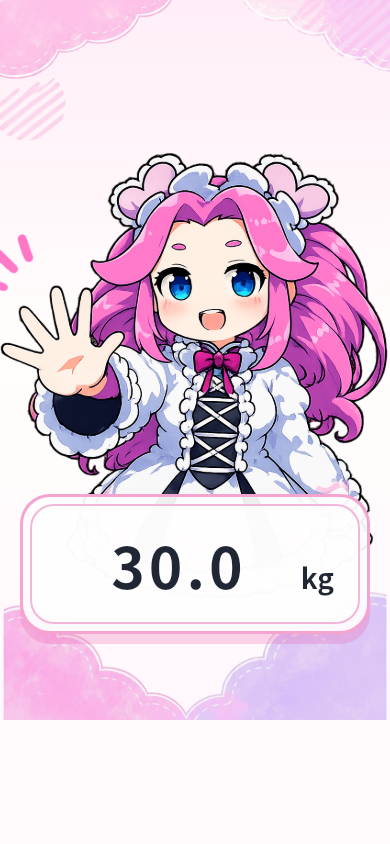
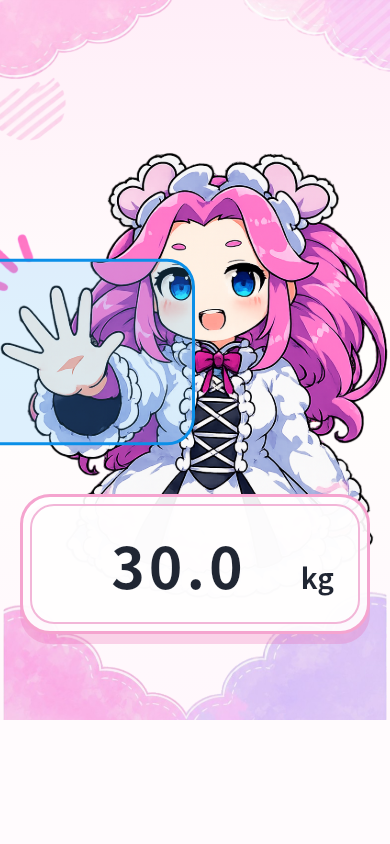
Improve error details and fix weight save

Changed region(s): [[0.0, 0.3081, 0.5231, 0.5545]]

diff --git a/lib/screens/home_screen.dart b/lib/screens/home_screen.dart
@@ -103,7 +103,11 @@ class _HomeScreenState extends ConsumerState<HomeScreen> {
       ).push(MaterialPageRoute<void>(builder: (_) => const ReportScreen()));
     } catch (error, stackTrace) {
       if (mounted) {
-        await AppErrorHandler.showErrorDialogForContext(context, error);
+        await AppErrorHandler.showErrorDialogForContext(
+          context,
+          error,
+          stackTrace,
+        );
       } else {
         AppErrorHandler.report(error, stackTrace);
       }
@@ -254,22 +258,70 @@ class _WeightInputHero extends StatelessWidget {
                       children: [
                         Positioned(
                           bottom: 92,
-                          child: Semantics(
-                            button: isHighTouchEnabled,
-                            label: isHighTouchEnabled ? 'ハイタッチ' : null,
-                            child: GestureDetector(
-                              behavior: HitTestBehavior.opaque,
-                              onTap: isHighTouchEnabled ? onHighTouch : null,
-                              child: AnimatedSwitcher(
-                                duration: const Duration(milliseconds: 280),
-                                child: Image.asset(
+                          child: AnimatedSwitcher(
+                            duration: const Duration(milliseconds: 280),
+                            child: Stack(
+                              key: ValueKey(characterAsset),
+                              alignment: Alignment.center,
+                              children: [
+                                Image.asset(
                                   characterAsset,
-                                  key: ValueKey(characterAsset),
                                   height: 470,
                                   fit: BoxFit.contain,
                                   semanticLabel: '体重入力キャラクター',
                                 ),
-                              ),
+                                if (isHighTouchEnabled)
+                                  Positioned.fill(
+                                    child: LayoutBuilder(
+                                      builder: (context, constraints) {
+                                        final cellHeight =
+                                            constraints.maxHeight / 3;
+
+                                        return Stack(
+                                          children: [
+                                            Positioned(
+                                              left: 0,
+                                              top: cellHeight - 30,
+                                              width: constraints.maxWidth / 2,
+                                              height: cellHeight + 30,
+                                              child: Semantics(
+                                                button: true,
+                                                label: 'ハイタッチ',
+                                                child: GestureDetector(
+                                                  behavior:
+                                                      HitTestBehavior.opaque,
+                                                  onTap: onHighTouch,
+                                                  child: IgnorePointer(
+                                                    child: DecoratedBox(
+                                                      decoration: BoxDecoration(
+                                                        color:
+                                                            const Color(
+                                                              0xFF48B7FF,
+                                                            ).withValues(
+                                                              alpha: 0.18,
+                                                            ),
+                                                        border: Border.all(
+                                                          color: const Color(
+                                                            0xFF0B8FE8,
+                                                          ),
+                                                          width: 3,
+                                                        ),
+                                                        borderRadius:
+                                                            BorderRadius.circular(
+                                                              28,
+                                                            ),
+                                                      ),
+                                                    ),
+                                                  ),
+                                                ),
+                                              ),
+                                            ),
+                                          ],
+                                        );
+                                      },
+                                    ),
+                                  ),
+                              ],
                             ),
                           ),
                         ),

diff --git a/lib/services/app_error_handler.dart b/lib/services/app_error_handler.dart
@@ -11,27 +11,33 @@ class AppErrorHandler {
     FlutterError.presentError(
       FlutterErrorDetails(exception: error, stack: stackTrace),
     );
-    unawaited(showErrorDialog(error));
+    unawaited(showErrorDialog(error, stackTrace));
   }
 
-  static Future<void> showErrorDialog(Object error) async {
+  static Future<void> showErrorDialog(
+    Object error, [
+    StackTrace? stackTrace,
+  ]) async {
     final context = appNavigatorKey.currentContext;
     if (context == null) return;
 
-    await showErrorDialogForContext(context, error);
+    await showErrorDialogForContext(context, error, stackTrace);
   }
 
   static Future<void> showErrorDialogForContext(
     BuildContext context,
-    Object error,
-  ) async {
+    Object error, [
+    StackTrace? stackTrace,
+  ]) async {
     if (!context.mounted) return;
 
     await showDialog<void>(
       context: context,
       builder: (context) => AlertDialog(
         title: const Text('エラーが発生しました'),
-        content: SingleChildScrollView(child: Text(error.toString())),
+        content: SingleChildScrollView(
+          child: Text(_formatErrorMessage(error, stackTrace)),
+        ),
         actions: [
           TextButton(
             onPressed: () => Navigator.of(context).pop(),
@@ -40,5 +46,43 @@ class AppErrorHandler {
         ],
       ),
     );
+  }
+
+  static String _formatErrorMessage(Object error, StackTrace? stackTrace) {
+    final location = _firstAppStackFrame(stackTrace);
+    if (location == null) return error.toString();
+
+    return '${error.toString()}\n\n発生箇所: $location';
+  }
+
+  static String? _firstAppStackFrame(StackTrace? stackTrace) {
+    if (stackTrace == null) return null;
+
+    for (final line in stackTrace.toString().split('\n')) {
+      final uriMatch = RegExp(
+        r'\((file://[^:]+):(\d+):(\d+)\)',
+      ).firstMatch(line);
+      if (uriMatch != null) {
+        final path = Uri.parse(uriMatch.group(1)!).toFilePath();
+        final normalizedPath = path.replaceAll('\\', '/');
+        final libIndex = normalizedPath.indexOf('/lib/');
+        final testIndex = normalizedPath.indexOf('/test/');
+        final relativePath = libIndex >= 0
+            ? normalizedPath.substring(libIndex + 1)
+            : testIndex >= 0
+            ? normalizedPath.substring(testIndex + 1)
+            : normalizedPath;
+        return '$relativePath:${uriMatch.group(2)}:${uriMatch.group(3)}';
+      }
+
+      final packageMatch = RegExp(
+        r'(package:weight_report_app/[^\s)]+):(\d+):(\d+)',
+      ).firstMatch(line);
+      if (packageMatch != null) {
+        return '${packageMatch.group(1)}:${packageMatch.group(2)}:${packageMatch.group(3)}';
+      }
+    }
+
+    return null;
   }
 }

diff --git a/lib/models/weight_entry.g.dart b/lib/models/weight_entry.g.dart
@@ -31,15 +31,7 @@ const WeightEntrySchema = CollectionSchema(
   deserialize: _weightEntryDeserialize,
   deserializeProp: _weightEntryDeserializeProp,
   idName: r'id',
-  indexes: {
-    r'date': IndexSchema(
-      id: -2635649454994942098,
-      name: r'date',
-      unique: true,
-      replace: true,
-      properties: [IndexPropertySchema(name: r'date', type: IndexType.value, caseSensitive: false)],
-    ),
-  },
+  indexes: {},
   links: {},
   embeddedSchemas: {},
   getId: _weightEntryGetId,
@@ -48,22 +40,41 @@ const WeightEntrySchema = CollectionSchema(
   version: '3.1.0+1',
 );
 
-int _weightEntryEstimateSize(WeightEntry object, List<int> offsets, Map<Type, List<int>> allOffsets) => 0;
+int _weightEntryEstimateSize(
+  WeightEntry object,
+  List<int> offsets,
+  Map<Type, List<int>> allOffsets,
+) => 0;
 
-void _weightEntrySerialize(WeightEntry object, IsarWriter writer, List<int> offsets, Map<Type, List<int>> allOffsets) {
+void _weightEntrySerialize(
+  WeightEntry object,
+  IsarWriter writer,
+  List<int> offsets,
+  Map<Type, List<int>> allOffsets,
+) {
   writer.writeDateTime(offsets[0], object.createdAt);
   writer.writeDateTime(offsets[1], object.date);
   writer.writeDouble(offsets[2], object.weightKg);
 }
 
-WeightEntry _weightEntryDeserialize(Id id, IsarReader reader, List<int> offsets, Map<Type, List<int>> allOffsets) => WeightEntry(
-      id: id,
-      createdAt: reader.readDateTimeOrNull(offsets[0]),
-      date: reader.readDateTime(offsets[1]),
-      weightKg: reader.readDouble(offsets[2]),
-    );
+WeightEntry _weightEntryDeserialize(
+  Id id,
+  IsarReader reader,
+  List<int> offsets,
+  Map<Type, List<int>> allOffsets,
+) => WeightEntry(
+  id: id,
+  createdAt: reader.readDateTimeOrNull(offsets[0]),
+  date: reader.readDateTime(offsets[1]),
+  weightKg: reader.readDouble(offsets[2]),
+);
 
-P _weightEntryDeserializeProp<P>(IsarReader reader, int propertyId, int offset, Map<Type, List<int>> allOffsets) {
+P _weightEntryDeserializeProp<P>(
+  IsarReader reader,
+  int propertyId,
+  int offset,
+  Map<Type, List<int>> allOffsets,
+) {
   switch (propertyId) {
     case 0:
       return (reader.readDateTimeOrNull(offset)) as P;
@@ -78,4 +89,8 @@ P _weightEntryDeserializeProp<P>(IsarReader reader, int propertyId, int offset, 
 
 Id _weightEntryGetId(WeightEntry object) => object.id;
 List<IsarLinkBase<dynamic>> _weightEntryGetLinks(WeightEntry object) => [];
-void _weightEntryAttach(IsarCollection<dynamic> col, Id id, WeightEntry object) => object.id = id;
+void _weightEntryAttach(
+  IsarCollection<dynamic> col,
+  Id id,
+  WeightEntry object,
+) => object.id = id;

diff --git a/lib/services/weight_repository.dart b/lib/services/weight_repository.dart
@@ -72,7 +72,20 @@ class WeightRepository {
   Future<void> saveToday(double weightKg) async {
     final now = DateTime.now();
     final today = DateTime(now.year, now.month, now.day);
-    final entry = WeightEntry(date: today, weightKg: weightKg, createdAt: now);
-    await _isar.writeTxn(() => _isar.weightEntries.put(entry));
+
+    await _isar.writeTxn(() async {
+      final entries = await _isar.weightEntries.where().findAll();
+      final existingEntry = entries.cast<WeightEntry?>().firstWhere(
+        (entry) => entry?.date == today,
+        orElse: () => null,
+      );
+
+      final entry =
+          existingEntry ??
+          WeightEntry(date: today, weightKg: weightKg, createdAt: now);
+      entry.weightKg = weightKg;
+      entry.createdAt ??= now;
+      await _isar.weightEntries.put(entry);
+    });
   }
 }

diff --git a/test/app_error_handler_test.dart b/test/app_error_handler_test.dart
@@ -12,6 +12,7 @@ void main() {
             onPressed: () => AppErrorHandler.showErrorDialogForContext(
               context,
               StateError('全体エラー'),
+              StackTrace.current,
             ),
             child: const Text('show error'),
           ),
@@ -24,6 +25,7 @@ void main() {
 
     expect(find.text('エラーが発生しました'), findsOneWidget);
     expect(find.textContaining('全体エラー'), findsOneWidget);
+    expect(find.textContaining('発生箇所:'), findsOneWidget);
 
     await tester.tap(find.text('OK'));
     await tester.pumpAndSettle();

diff --git a/lib/main.dart b/lib/main.dart
@@ -12,7 +12,7 @@ void main() {
     WidgetsFlutterBinding.ensureInitialized();
     FlutterError.onError = (details) {
       FlutterError.presentError(details);
-      AppErrorHandler.showErrorDialog(details.exception);
+      AppErrorHandler.showErrorDialog(details.exception, details.stack);
     };
     PlatformDispatcher.instance.onError = (error, stackTrace) {
       AppErrorHandler.report(error, stackTrace);

diff --git a/test/home_screen_golden_test.dart b/test/home_screen_golden_test.dart
@@ -205,6 +205,7 @@ void main() {
 
     expect(find.text('エラーが発生しました'), findsOneWidget);
     expect(find.textContaining('保存失敗'), findsOneWidget);
+    expect(find.textContaining('発生箇所:'), findsOneWidget);
     expect(repository.savedWeights, isEmpty);
   });
 

diff --git a/lib/models/weight_entry.dart b/lib/models/weight_entry.dart
@@ -14,7 +14,6 @@ class WeightEntry {
 
   Id id;
 
-  @Index(unique: true, replace: true)
   DateTime date;
 
   double weightKg;

diff --git a/docs/specs/weight_report_app_spec.md b/docs/specs/weight_report_app_spec.md
@@ -31,8 +31,8 @@ Weight Report App は、Android 向けに体重を日次で記録し、履歴・
 - 体重入力は数値のみ、小数点第 1 位まで、最大 `999.9 kg` とする。
 - 体重表示カードは白〜淡色の背景、ピンクの枠線、角丸、軽い影を付け、入力可能な領域であることが分かる見た目にする。
 - `30.0 kg` 以上かつ小数点第 1 位まで入力したあと、キーボード表示をなくして入力確定したら、キャラクター画像をハイタッチ要求状態（`character_high_touch.png`）に変更する。
-- ハイタッチ要求状態では、キャラクター画像全体をタップできる。
-- ハイタッチ中のキャラクター画像をタップしたら、入力された体重と入力した日付をアプリ内 DB に保存する。
+- ハイタッチ要求状態では、キャラクター画像を横 2・縦 3 に分割したうち、横 1・縦 2 のエリアを上方向に 30px 広げた手のあたりをタップでき、確認用にタップ可能エリアを表示する。
+- ハイタッチ中の手のあたりのタップ可能エリアをタップしたら、入力された体重と入力した日付をアプリ内 DB に保存する。
 - 体重の保存が成功したら、キャラクター画像を記録完了のお祝い状態（`character_celebration.png`）に変更し、2 秒後にレポート画面へ遷移する。
 - ホーム画面には、保存済みの体重履歴、直近 7 日平均、目標体重までの進捗などのレポート情報を表示しない。
 
@@ -48,7 +48,7 @@ Weight Report App は、Android 向けに体重を日次で記録し、履歴・
 ## エラー表示仕様
 
 - アプリ内でエラーが発生したら、`エラーが発生しました` というタイトルのダイアログを表示する。
-- エラーダイアログには、発生したエラー内容を本文として表示する。
+- エラーダイアログには、発生したエラー内容と、特定できる場合はファイル名・行番号・列番号を本文として表示する。
 - エラーダイアログは `OK` ボタンで閉じられる。
 
 ## データ仕様
@@ -64,10 +64,10 @@ Weight Report App は、Android 向けに体重を日次で記録し、履歴・
 - 体重入力は数値のみ、小数点第 1 位まで、最大 `999.9 kg` に制限される。
 - 入力体重が `30.0 kg` 未満の場合、ハイタッチ要求状態にはならない。
 - 入力体重が `30.0 kg` 以上かつ小数点第 1 位まで入力済みで、キーボード表示をなくして入力確定した場合、ハイタッチ要求状態になる。
-- ハイタッチ中のキャラクター画像をタップすると、入力された体重と入力した日付がローカルに保存される。
+- ハイタッチ中の手のあたりのタップ可能エリアをタップすると、入力された体重と入力した日付がローカルに保存される。
 - 体重の保存が成功したら、ホーム画面のキャラクター画像が記録完了のお祝い状態に変わり、2 秒後にレポート画面へ遷移する。
 - 保存した体重はアプリ再起動後も確認できる。
-- アプリ内でエラーが発生した場合、エラー内容がダイアログで表示される。
+- アプリ内でエラーが発生した場合、エラー内容と、特定できる場合はファイル名・行番号・列番号がダイアログで表示される。
 - レポート画面では、体重履歴が記録日と体重が分かる形で表示される。
 - レポート画面では、直近 7 日分の記録がある場合、平均体重が表示される。
 - レポート画面では、目標体重 75kg に対する進捗が表示される。
